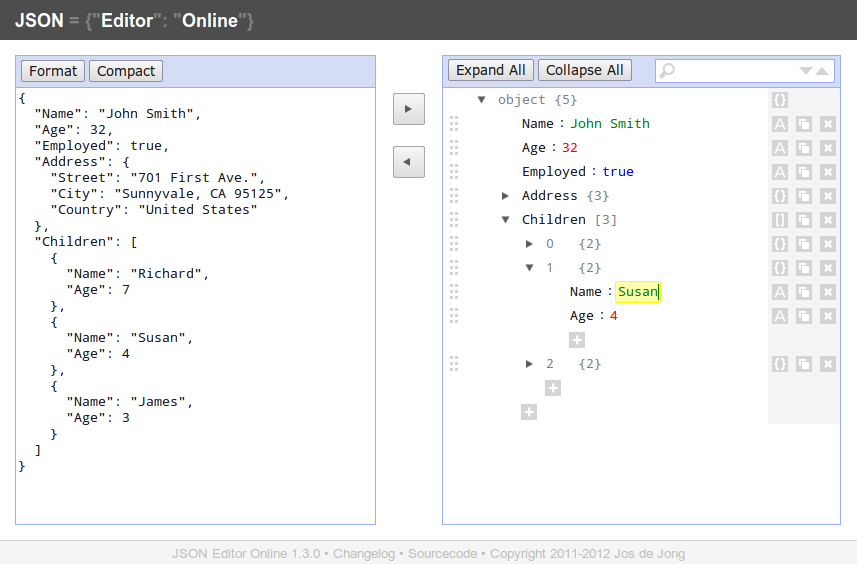
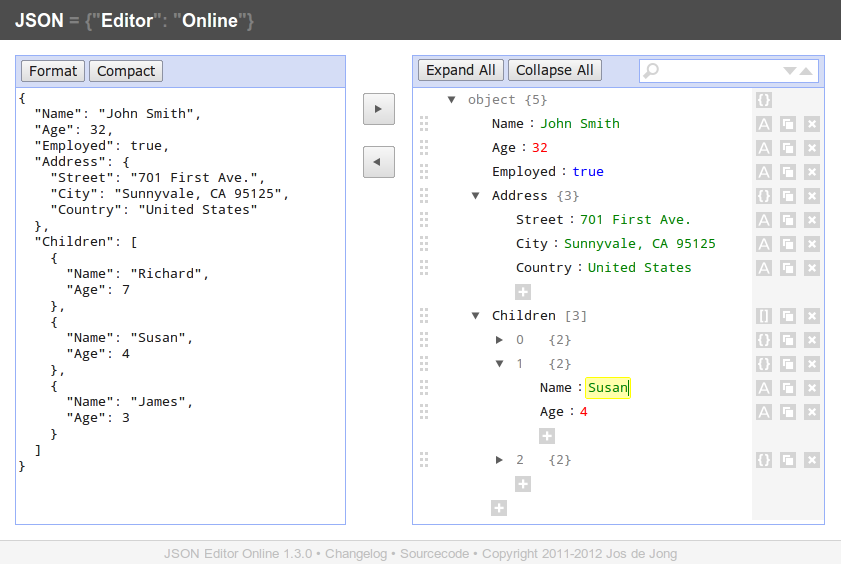
Updated screenshot and readme

diff --git a/README.md b/README.md
@@ -2,14 +2,14 @@
 http://jsoneditoronline.org
 
 
-## Description
+### Description
 
 JSON Editor Online is a web-based tool to view, edit, and format JSON.
 It shows your data side by side in a clear, editable treeview and in 
 formatted plain text.
 
 
-## Features
+### Features
 
 - View and edit JSON side by side in treeview and plain text.
 - Edit, add, move, remove, and duplicate fields and values.
@@ -19,13 +19,17 @@ formatted plain text.
 - Format and compact JSON in plain text.
 
 
-## Getting started
+### Getting started
 
 Website:    http://jsoneditoronline.org
 Wiki:       https://github.com/wjosdejong/jsoneditoronline/wiki
 Sourcecode: https://github.com/wjosdejong/jsoneditoronline
 Downloads:  https://github.com/wjosdejong/jsoneditoronline/tree/master/build/lib
 
-## Screenshot
+### Screenshot
 
-![jsoneditoronline](https://raw.github.com/wjosdejong/jsoneditoronline/master/misc/screenshots/jsoneditoronline.png)
+<a href="http://jsoneditoronline.org">
+    <img alt="jsoneditoronline"
+        style="border: 1px solid gray;"
+        src="https://raw.github.com/wjosdejong/jsoneditoronline/master/misc/screenshots/jsoneditoronline.png">
+</a>
